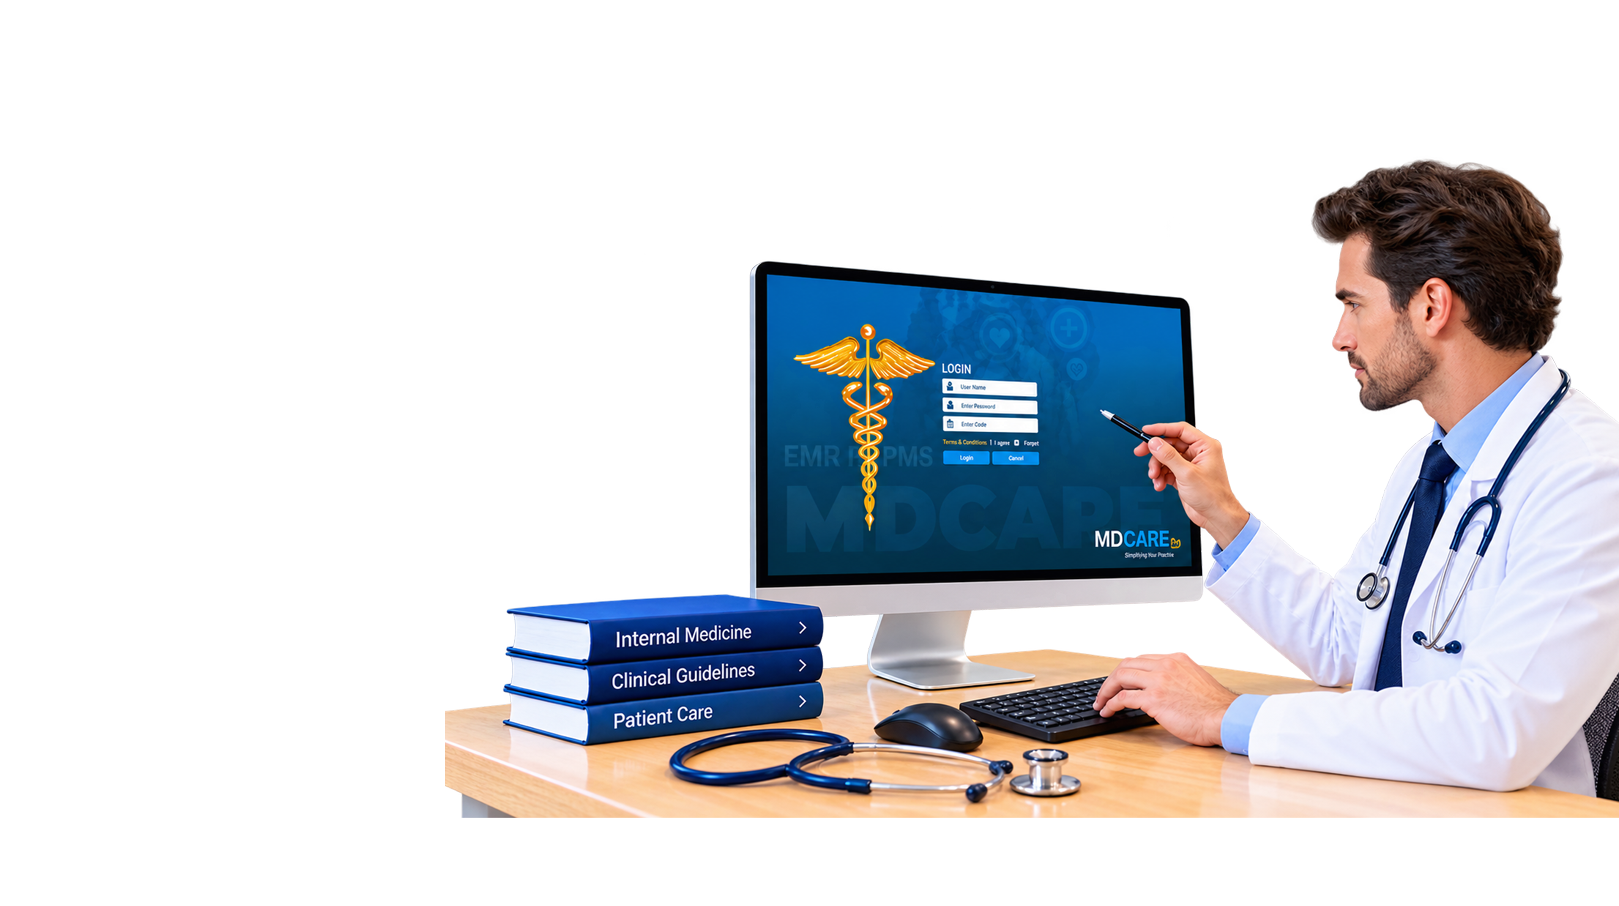
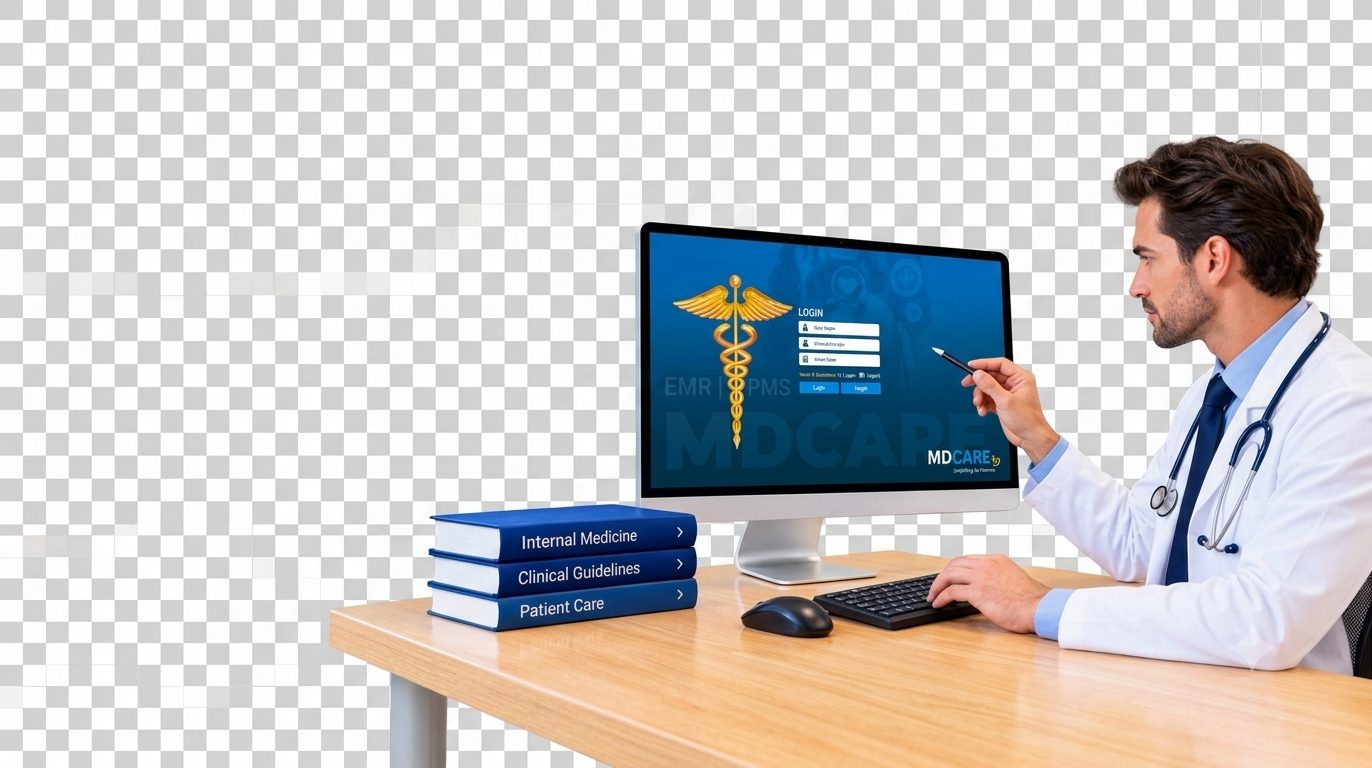
new
new

diff --git a/mdcarenewsite4/index.html b/mdcarenewsite4/index.html
@@ -3,7 +3,7 @@
 <head>
     <meta charset="UTF-8" />
     <meta name="viewport" content="width=device-width, initial-scale=1.0" />
-    <title>MDCARE | Certified Web-Based EMR &amp; Practice Management</title>
+    <title>MDCARE | Certified Web-Based EMR   Practice Management</title>
     <meta name="description" content="MDCare is an ONC-certified, web-based EMR and practice management platform: EMR, billing, AR, labs and eRx in one connected system." />
     <link rel="icon" href="assets/img/favicon.png" />
 
@@ -313,16 +313,16 @@
                         <div class="why-item"><i class="bi bi-grid-1x2"></i><div><h3>All-in-One Platform</h3><p>EMR, billing, AR, labs, eRx, and practice management in one connected system.</p></div></div>
                     </div>
                     <div class="col-md-6 col-lg-4"  data-delay="100">
-                        <div class="why-item"><i class="bi bi-sliders"></i><div><h3>Flexible &amp; Customizable</h3><p>Adapt workflows and functionality to your specialty and practice needs.</p></div></div>
+                        <div class="why-item"><i class="bi bi-sliders"></i><div><h3>Flexible   Customizable</h3><p>Adapt workflows and functionality to your specialty and practice needs.</p></div></div>
                     </div>
                     <div class="col-md-6 col-lg-4"  data-delay="200">
                         <div class="why-item"><i class="bi bi-globe2"></i><div><h3>Anytime, Anywhere Access</h3><p>A web-based platform designed for seamless access across devices.</p></div></div>
                     </div>
                     <div class="col-md-6 col-lg-4" data-delay="0">
-                        <div class="why-item"><i class="bi bi-link-45deg"></i><div><h3>Connected &amp; Interoperable</h3><p>Built around healthcare standards including HL7, FHIR, DICOM, and more.</p></div></div>
+                        <div class="why-item"><i class="bi bi-link-45deg"></i><div><h3>Connected   Interoperable</h3><p>Built around healthcare standards including HL7, FHIR, DICOM, and more.</p></div></div>
                     </div>
                     <div class="col-md-6 col-lg-4"  data-delay="100">
-                        <div class="why-item"><i class="bi bi-shield-lock"></i><div><h3>Secure &amp; Compliance-Ready</h3><p>Designed with healthcare security, privacy, and regulatory requirements in mind.</p></div></div>
+                        <div class="why-item"><i class="bi bi-shield-lock"></i><div><h3>Secure   Compliance-Ready</h3><p>Designed with healthcare security, privacy, and regulatory requirements in mind.</p></div></div>
                     </div>
                     <div class="col-md-6 col-lg-4" data-delay="200">
                         <div class="why-item"><i class="bi bi-graph-up-arrow"></i><div><h3>Built to Scale</h3><p>From small practices to multi-specialty organizations, MDCare grows with you.</p></div></div>
@@ -419,7 +419,7 @@
                                             <i class="bi bi-receipt-cutoff"></i>
                                         </div>
                                         <div class="col-lg-11 ps-4">
-                                            <h3>Automated Coding &amp; Reporting</h3>
+                                            <h3>Automated Coding   Reporting</h3>
                                             <p>Streamline documentation and maximize reimbursements.</p>
                                         </div>
                                     </div>
@@ -528,7 +528,7 @@
                                             <i class="bi bi-bar-chart-line"></i>
                                         </div>
                                         <div class="col-lg-11 ps-4">
-                                            <h3>Reporting &amp; Analytics</h3>
+                                            <h3>Reporting   Analytics</h3>
                                             <p>Actionable insights to help your practice grow.</p>
                                         </div>
                                     </div>
@@ -576,7 +576,7 @@
                                 <i class="bi bi-quote quote-mark"></i>
                                 <div class="stars" aria-label="5 out of 5 stars"><i class="bi bi-star-fill"></i><i class="bi bi-star-fill"></i><i class="bi bi-star-fill"></i><i class="bi bi-star-fill"></i><i class="bi bi-star-fill"></i></div>
                                 <blockquote>This system adapts to our needs. A customized single platform for office and nursing home charting, and an integrated billing module makes our practice very efficient.</blockquote>
-                                <figcaption><img src="assets/img/testimonial-user.jpg" alt="" /><div><strong>B. Latthe, MD</strong><span>Geriatric &amp; Palliative Care</span></div></figcaption>
+                                <figcaption><img src="assets/img/testimonial-user.jpg" alt="" /><div><strong>B. Latthe, MD</strong><span>Geriatric   Palliative Care</span></div></figcaption>
                                 <p class="attrs">Best attributes: Customization | Workflow</p>
                             </figure>
                         </div>

diff --git a/mdcarenewsite4/assets/css/classic.css b/mdcarenewsite4/assets/css/classic.css
@@ -171,10 +171,11 @@ a { color: var(--navy-2); }
   inset: -4% 0;
   will-change: transform;
 
-  background-image: url("../img/main1.png");
+  background-image: url("../img/MDC11.png");
   background-repeat: no-repeat;
   background-position: right;
-  background-size: cover;
+  background-size: inherit;
+  background-position-y: -50%;
 }
 .hero-bg::after { content: ""; position: absolute; inset: 0; opacity: .5;
     background-image: linear-gradient(rgba(255,255,255,.04) 1px, transparent 1px), linear-gradient(90deg, rgba(255,255,255,.04) 1px, transparent 1px);
